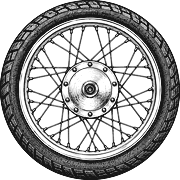
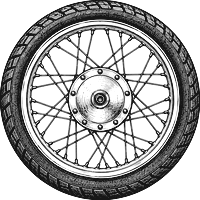
pesquisa moto TESTE: + aventureira (Himalayan/Guerrilla/Scram) e 650 bicilindrica; pagina escolhe o desenho pelo modelo do cliente (?fam= forca na demo)

diff --git a/satisfacao-teste.html b/satisfacao-teste.html
@@ -87,11 +87,11 @@ body{display:flex;flex-direction:column;min-height:100vh;min-height:100dvh}.app{
   animation:corre2 .7s linear infinite;opacity:.0;transition:opacity .3s}
 .palco.acelera .riscos{opacity:1}
 .palco .piloto{position:absolute;left:50%;bottom:calc(21px + env(safe-area-inset-bottom));width:220px;margin-left:-110px;transition:transform .45s cubic-bezier(.3,1.4,.5,1)}
-.palco .moto{position:relative;width:100%;aspect-ratio:1230/913}
+.palco .moto{position:relative;width:100%}
 .palco .moto img{position:absolute;display:block}
 .palco .moto .corpo{inset:0;width:100%;height:100%;animation:motor .09s steps(2) infinite}
-.palco .roda{width:29.1%;aspect-ratio:1;top:59.9%;will-change:transform}
-.palco .roda.tras{left:1.2%}.palco .roda.frente{left:70.2%;width:29.3%}
+.palco .roda{aspect-ratio:1;will-change:transform}
+
 
 
 
@@ -112,7 +112,7 @@ body{display:flex;flex-direction:column;min-height:100vh;min-height:100dvh}.app{
 </style>
 </head>
 <body>
-<div class="palco" id="palco" aria-hidden="true"><div class="riscos"></div><div class="chao"></div><div class="piloto"><div class="quica"><div class="moto"><img class="roda tras" src="roda_classica.webp" alt=""><img class="roda frente" src="roda_classica.webp" alt=""><img class="corpo" src="moto_classica_corpo.webp" alt=""></div></div></div></div>
+<div class="palco" id="palco" aria-hidden="true"><div class="riscos"></div><div class="chao"></div><div class="piloto"><div class="quica"><div class="moto" id="moto"></div></div></div></div>
 <main class="app" id="app" aria-live="polite"><p class="carregando">Carregando sua pesquisa…</p></main>
 <script>
 (function () {
@@ -130,6 +130,26 @@ body{display:flex;flex-direction:column;min-height:100vh;min-height:100dvh}.app{
 
   // moto a nanquim: sempre funcionando (tremidinha + quique + chao correndo); a cada resposta ACELERA e solta fumaca
   var palco = document.getElementById("palco");
+  // desenhos a nanquim por familia (camadas: corpo sem rodas + roda que gira). rodas = [left%, top%, largura%]
+  var ARTES = {
+    classica: { corpo: "moto_classica_corpo.webp", roda: "roda_classica.webp", ar: "1230/913", rodas: [[1.22, 59.91, 28.94], [70.24, 59.91, 29.27]] },
+    aventureira: { corpo: "moto_aventureira_corpo.webp", roda: "roda_aventureira.webp", ar: "1283/925", rodas: [[2.26, 58.7, 29.31], [68.04, 55.68, 31.49]] },
+    bicilindrica: { corpo: "moto_bicilindrica_corpo.webp", roda: "roda_classica.webp", ar: "1295/926", rodas: [[1.24, 56.37, 30.58], [68.65, 56.16, 30.89]] }
+  };
+  function familiaDe(moto) {
+    var m = String(moto || "").toLowerCase();
+    if (/himalayan|guerrilla|scram/.test(m) && ARTES.aventureira) return "aventureira";
+    if (/650|interceptor|continental|\bgt\b|super ?meteor|shotgun|bear/.test(m) && ARTES.bicilindrica) return "bicilindrica";
+    return "classica";
+  }
+  function montarMoto(fam) {
+    var a = ARTES[fam] || ARTES.classica, el = document.getElementById("moto");
+    el.style.aspectRatio = a.ar;
+    el.innerHTML = a.rodas.map(function (r) {
+      return '<img class="roda" src="' + a.roda + '" alt="" style="left:' + r[0] + '%;top:' + r[1] + '%;width:' + r[2] + '%">';
+    }).join("") + '<img class="corpo" src="' + a.corpo + '" alt="">';
+    rodas = palco.querySelectorAll(".roda");
+  }
   function fumaca(n) {
     var p = palco.querySelector(".piloto");
     for (var i = 0; i < n; i++) (function (i) {
@@ -146,7 +166,7 @@ body{display:flex;flex-direction:column;min-height:100vh;min-height:100dvh}.app{
   }
   setInterval(function () { if (!document.hidden) fumaca(1); }, 1600);
   // rodas: giro continuo por JS com velocidade suave (CSS daria tranco ao trocar a duracao)
-  var rodas = palco.querySelectorAll(".roda"), ang = 0, vel = 400, velAlvo = 400, tAnt = 0;
+  var rodas = [], ang = 0, vel = 400, velAlvo = 400, tAnt = 0;
   var parado = matchMedia("(prefers-reduced-motion: reduce)").matches;
   function girar(t) {
     var dt = tAnt ? Math.min(.05, (t - tAnt) / 1000) : 0; tAnt = t;
@@ -400,7 +420,7 @@ body{display:flex;flex-direction:column;min-height:100vh;min-height:100dvh}.app{
     ] };
 
   function iniciar() {
-    if (token === "demo") { D = DEMO; aplicarMarca("royal"); atual = "inicio"; return render(); }
+    if (token === "demo") { D = DEMO; aplicarMarca("royal"); montarMoto(new URLSearchParams(location.search).get("fam") || familiaDe(D.contexto.moto)); atual = "inicio"; return render(); }
     if (!/^[A-Za-z0-9_-]{4,64}$/.test(token)) {
       return mostrar('<section class="final centro" style="margin:auto"><h1 class="grande" style="font-size:36px">Link incompleto</h1><p>Abra a pesquisa pelo botão da mensagem que você recebeu no WhatsApp.</p></section>');
     }
@@ -410,6 +430,7 @@ body{display:flex;flex-direction:column;min-height:100vh;min-height:100dvh}.app{
       }
       D = j;
       aplicarMarca(j.marca);
+      montarMoto(familiaDe((j.contexto || {}).moto));
       if (j.estado === "respondido") return telaSimples("Essa pesquisa já foi respondida", "Recebemos suas respostas" + quando(j.respondido_em) + ". Obrigado por responder!", true);
       if (j.estado === "encerrado") return telaSimples("Essa pesquisa foi encerrada", "Obrigado pelo seu tempo!", true);
       atual = "inicio";
